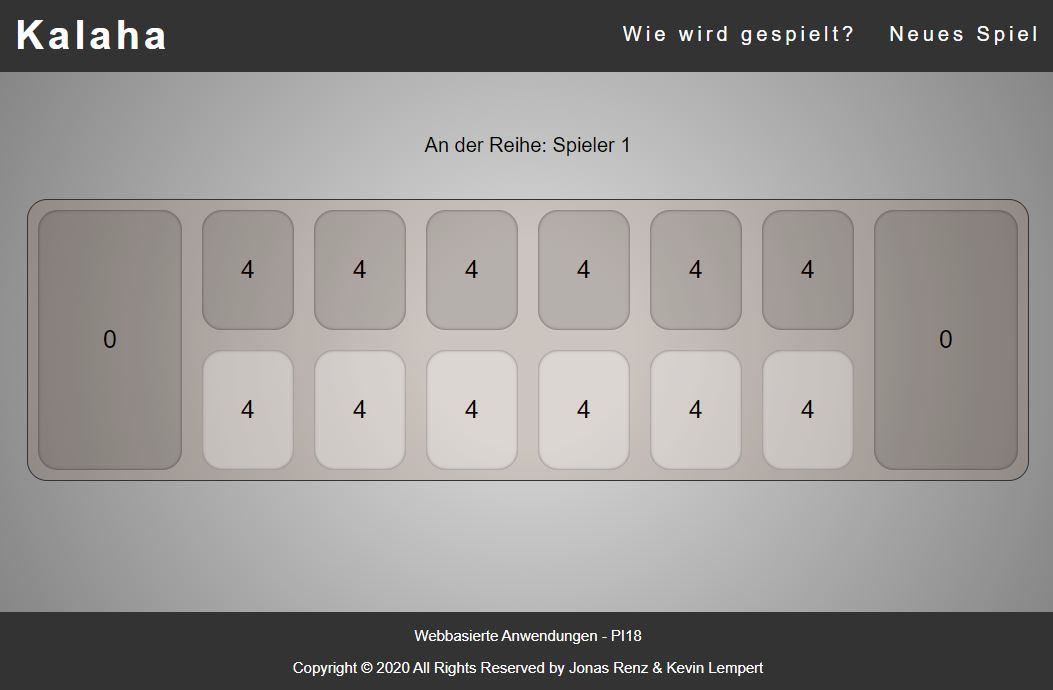
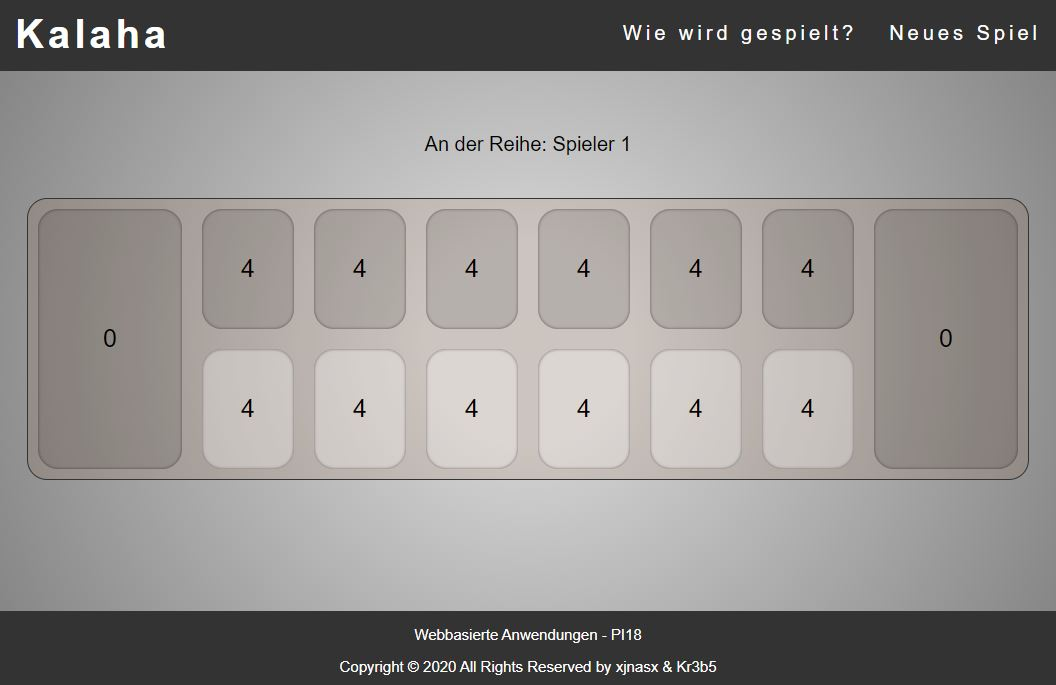
update img + html

diff --git a/index.html b/index.html
@@ -77,7 +77,7 @@
 
 	<footer>
 		<p>Webbasierte Anwendungen - PI18</p>
-		<p>Copyright &copy; 2020 All Rights Reserved by Jonas Renz & Kevin Lempert</p>
+		<p>Copyright &copy; 2020 All Rights Reserved by xjnasx & Kr3b5</p>
 	</footer>
 
 </body>
